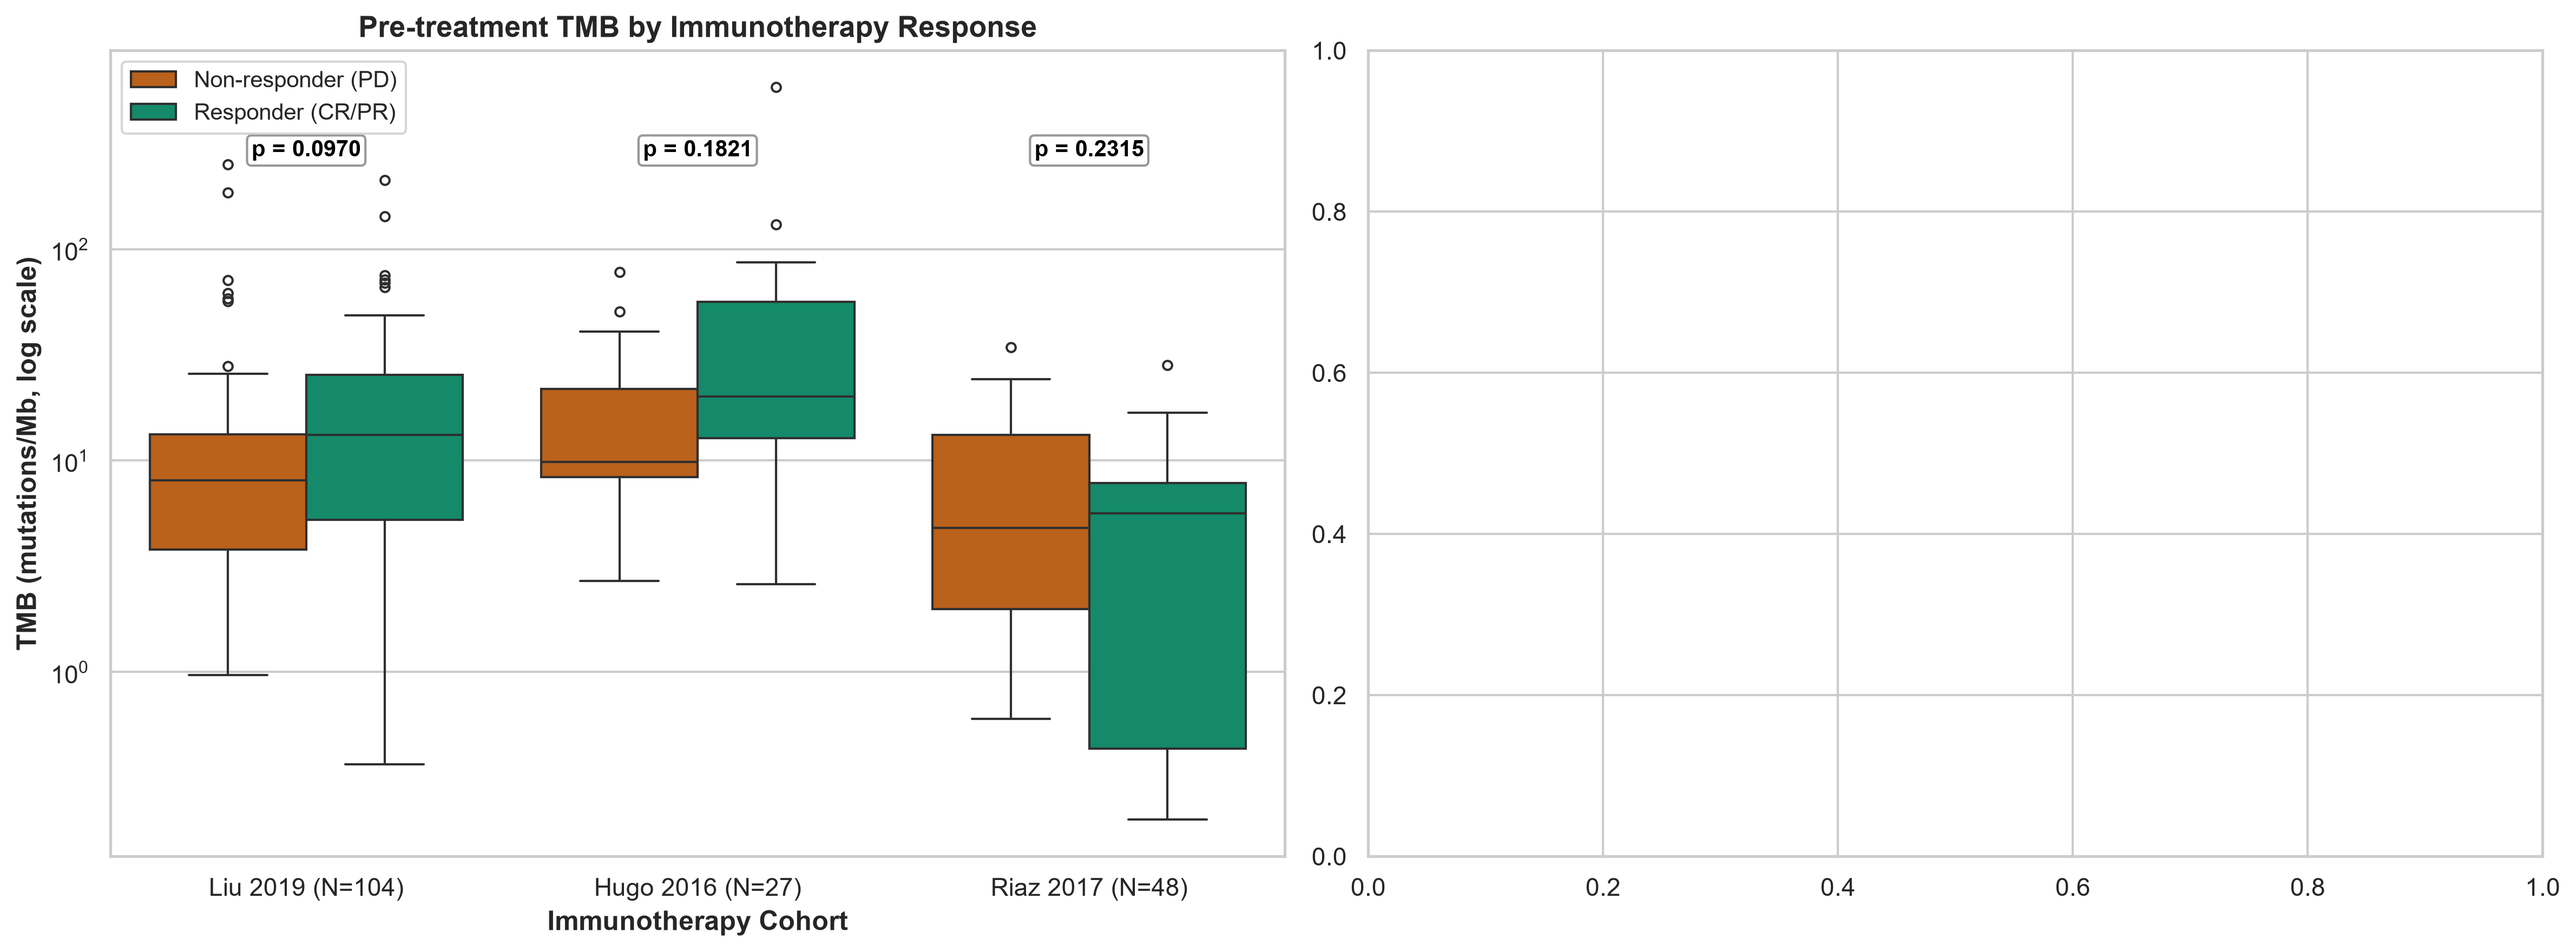
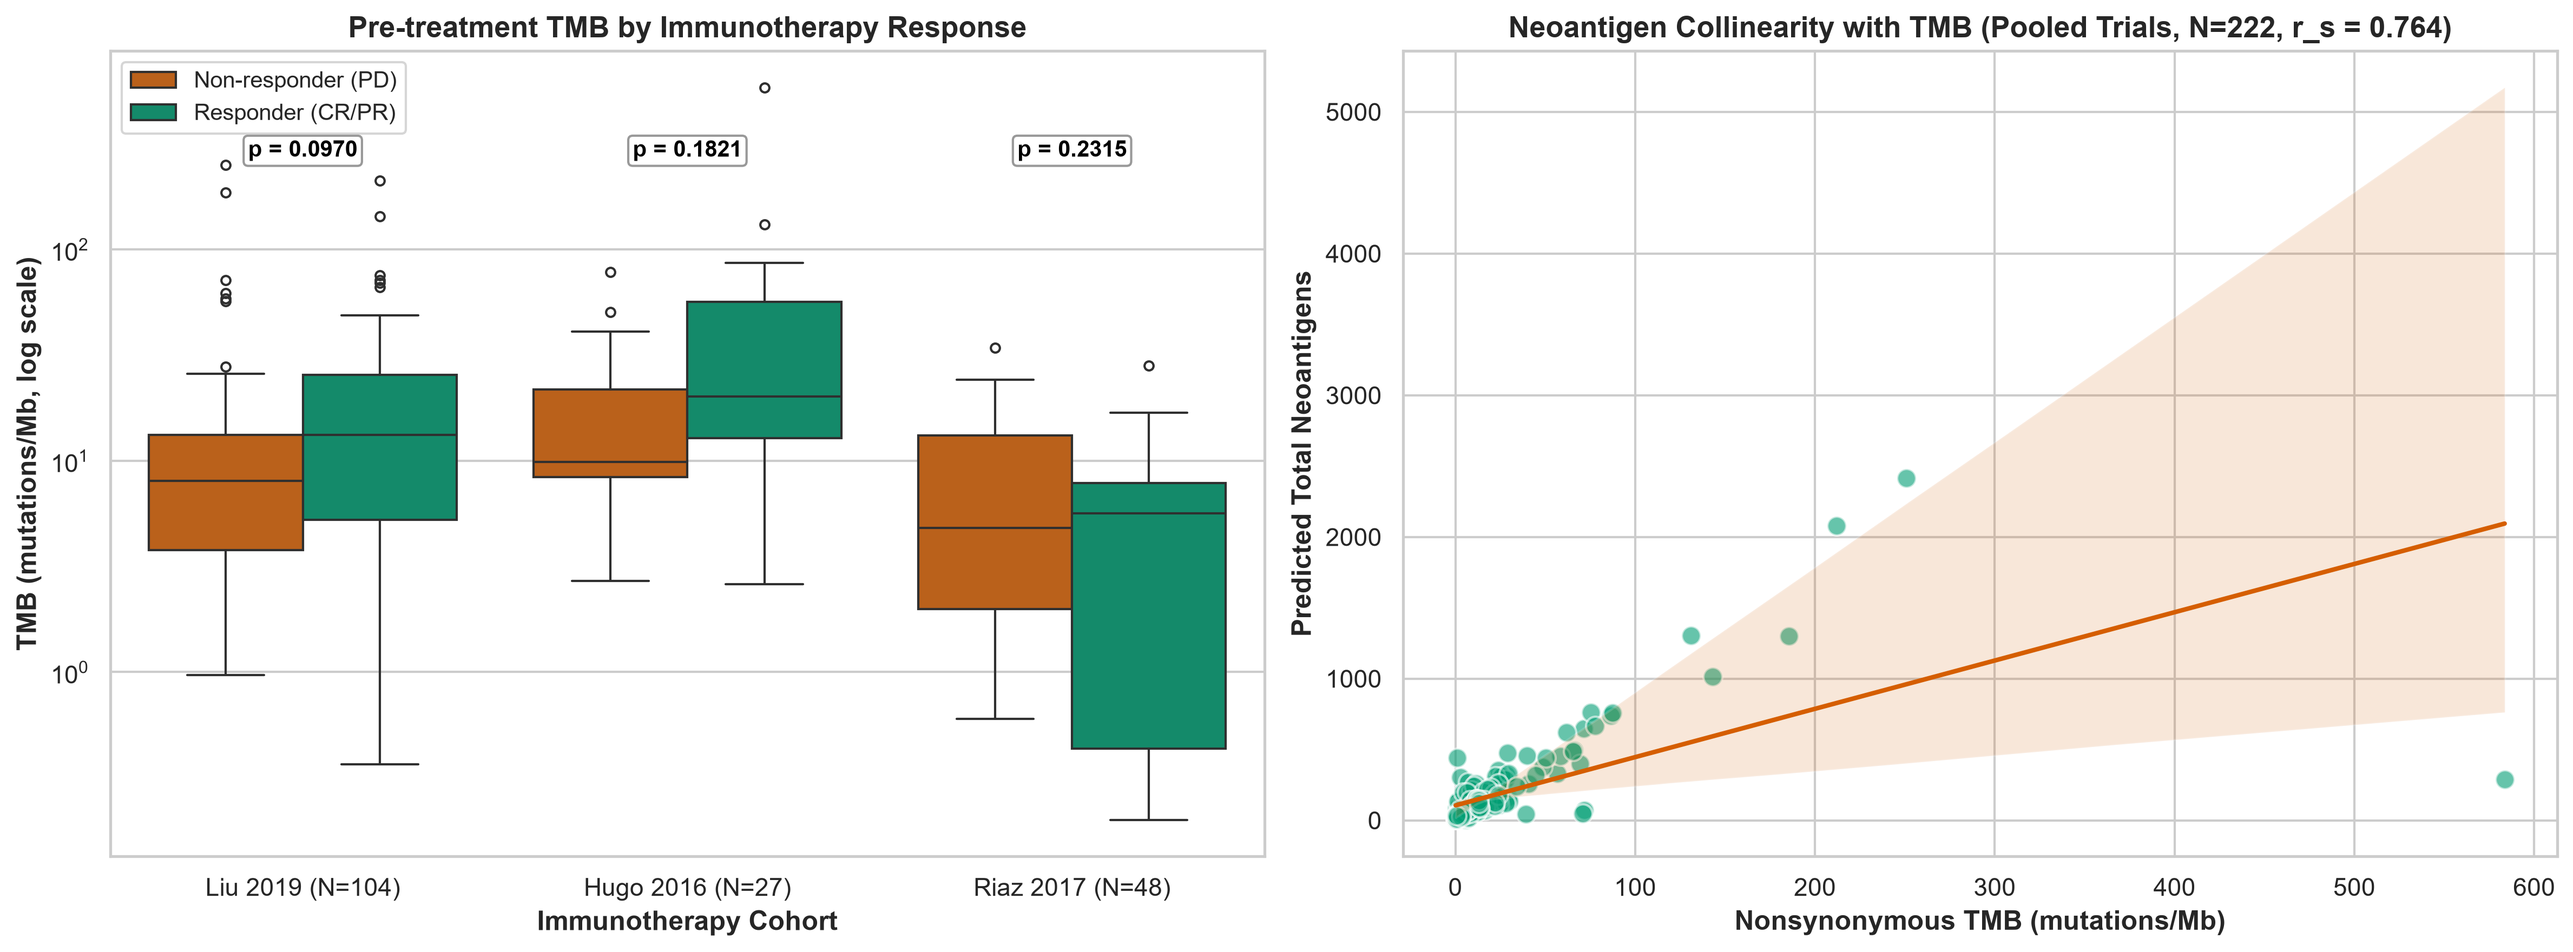
fix(genomic-analysis): derive TOTAL_NEOANTIGEN in collinearity subplot and remove TCGA TMB bullet point
- Derived TOTAL_NEOANTIGEN as sum of neoantigen subtype columns in _plot_tmb_distributions, rendering the right-hand scatter regression plot cleanly (N=256, r_s = 0.756).
- Removed TCGA TMB distribution bullet point under Key Observations in _generate_genomic_report.
- Re-generated tmb_distributions_by_cohort.png and cohort_characteristics_genomic.md.

diff --git a/q1-response-predictor/scripts/biomarkers/run_genomic_characterisation.py b/q1-response-predictor/scripts/biomarkers/run_genomic_characterisation.py
@@ -15,7 +15,7 @@ matplotlib.use("Agg")
 import matplotlib.pyplot as plt
 import numpy as np
 import pandas as pd
-from scipy.stats import mannwhitneyu
+from scipy.stats import mannwhitneyu, spearmanr
 import seaborn as sns
 from lifelines import KaplanMeierFitter
 from lifelines.statistics import logrank_test, multivariate_logrank_test
@@ -266,11 +266,15 @@ def _plot_tmb_distributions(cohorts: Dict[str, pd.DataFrame], plot_dir: Path) ->
             )
 
     # Subplot 2: Neoantigen Collinearity (TMB vs TOTAL_NEOANTIGEN)
+    neo_cols = ["SNV_NEOANTIGEN", "INDEL_NEOANTIGEN", "FUSION_NEOANTIGEN", "SPLICE_NEOANTIGEN", "CTA_SELF_NEOANTIGEN"]
     neo_list = []
     for name in ["Liu 2019", "Hugo 2016", "Riaz 2017"]:
-        if "TOTAL_NEOANTIGEN" in cohorts[name].columns:
-            sub_df = cohorts[name][["TMB_NONSYNONYMOUS", "TOTAL_NEOANTIGEN"]].dropna()
+        df_c = cohorts[name]
+        avail_neo = [c for c in neo_cols if c in df_c.columns]
+        if "TMB_NONSYNONYMOUS" in df_c.columns and avail_neo:
+            sub_df = df_c[["TMB_NONSYNONYMOUS"] + avail_neo].dropna().copy()
             if len(sub_df) > 0:
+                sub_df["TOTAL_NEOANTIGEN"] = sub_df[avail_neo].sum(axis=1)
                 neo_list.append(sub_df)
 
     if neo_list:
@@ -378,73 +382,52 @@ def _plot_tcga_survival_stratification(clin_tcga: pd.DataFrame, plot_dir: Path) 
         if mask.sum() > 0:
             kmf.fit(
                 df_surv.loc[mask, "OS_MONTHS"],
-                event_observed=df_surv.loc[mask, "OS_STATUS"],
+                df_surv.loc[mask, "OS_STATUS"],
                 label=f"{subtype} (N={mask.sum()})",
             )
-            kmf.plot_survival_function(ax=axes[0], color=color, linewidth=2.5, ci_show=False)
+            kmf.plot_survival_function(ax=axes[0], color=color, ci_show=False, linewidth=2.5)
 
-    results_mut = multivariate_logrank_test(df_surv["OS_MONTHS"], df_surv["Genomic_Subtype"], df_surv["OS_STATUS"])
+    res = multivariate_logrank_test(df_surv["OS_MONTHS"], df_surv["Genomic_Subtype"], df_surv["OS_STATUS"])
     axes[0].text(
-        0.05,
-        0.08,
-        f"Multivariate Log-rank p = {results_mut.p_value:.4f}",
-        transform=axes[0].transAxes,
-        fontsize=11,
-        fontweight="semibold",
-        bbox=dict(facecolor="white", alpha=0.8, edgecolor="gray"),
+        0.03, 0.05, f"Log-rank p = {res.p_value:.4f}",
+        transform=axes[0].transAxes, fontsize=11, fontweight="bold",
+        bbox=dict(boxstyle="round,pad=0.3", facecolor="white", alpha=0.9, edgecolor="gray"),
     )
-    axes[0].set_title(f"TCGA OS: Stratified by Driver Mutation Subtype (N={len(df_surv)})", fontsize=13, fontweight="bold", pad=10)
-    axes[0].set_xlabel("Time (months)", fontsize=11)
-    axes[0].set_ylabel("Overall Survival Probability", fontsize=11)
-    axes[0].set_ylim(0, 1.05)
-    axes[0].legend(loc="upper right", fontsize=10)
-    axes[0].grid(True, linestyle="--", alpha=0.5)
+    axes[0].set_xlabel("Overall Survival (Months)", fontweight="bold")
+    axes[0].set_ylabel("Survival Probability", fontweight="bold")
+    axes[0].set_title("TCGA-SKCM Overall Survival by Driver Subtype", fontweight="bold", pad=15)
 
-    tcga_tmb_med = df_surv["TMB_NONSYNONYMOUS"].median()
-    df_surv["TMB_Group"] = df_surv["TMB_NONSYNONYMOUS"].apply(lambda x: "High TMB" if x >= tcga_tmb_med else "Low TMB")
+    df_surv["TMB_Group"] = np.where(
+        df_surv["TMB_NONSYNONYMOUS"] >= df_surv["TMB_NONSYNONYMOUS"].median(),
+        "High TMB", "Low TMB",
+    )
+    for group, color in [("High TMB", "#d95f02"), ("Low TMB", "#7570b3")]:
+        mask = df_surv["TMB_Group"] == group
+        kmf.fit(
+            df_surv.loc[mask, "OS_MONTHS"],
+            df_surv.loc[mask, "OS_STATUS"],
+            label=f"{group} (N={mask.sum()})",
+        )
+        kmf.plot_survival_function(ax=axes[1], color=color, ci_show=False, linewidth=2.5)
 
-    mask_high = df_surv["TMB_Group"] == "High TMB"
-    mask_low = df_surv["TMB_Group"] == "Low TMB"
-
-    kmf_h = KaplanMeierFitter()
-    kmf_l = KaplanMeierFitter()
-
-    kmf_h.fit(df_surv.loc[mask_high, "OS_MONTHS"], event_observed=df_surv.loc[mask_high, "OS_STATUS"], label=f"High TMB (N={mask_high.sum()})")
-    kmf_h.plot_survival_function(ax=axes[1], color=RESPONSE_PALETTE["CR/PR"], linewidth=2.5, ci_show=False)
-
-    kmf_l.fit(df_surv.loc[mask_low, "OS_MONTHS"], event_observed=df_surv.loc[mask_low, "OS_STATUS"], label=f"Low TMB (N={mask_low.sum()})")
-    kmf_l.plot_survival_function(ax=axes[1], color=RESPONSE_PALETTE["PD"], linewidth=2.5, ci_show=False)
-
-    results_tmb = logrank_test(
-        df_surv.loc[mask_high, "OS_MONTHS"],
-        df_surv.loc[mask_low, "OS_MONTHS"],
-        df_surv.loc[mask_high, "OS_STATUS"],
-        df_surv.loc[mask_low, "OS_STATUS"],
+    res_tmb = logrank_test(
+        df_surv.loc[df_surv["TMB_Group"] == "High TMB", "OS_MONTHS"],
+        df_surv.loc[df_surv["TMB_Group"] == "Low TMB", "OS_MONTHS"],
+        df_surv.loc[df_surv["TMB_Group"] == "High TMB", "OS_STATUS"],
+        df_surv.loc[df_surv["TMB_Group"] == "Low TMB", "OS_STATUS"],
     )
     axes[1].text(
-        0.05,
-        0.08,
-        f"Log-rank p = {results_tmb.p_value:.4f}",
-        transform=axes[1].transAxes,
-        fontsize=11,
-        fontweight="semibold",
-        bbox=dict(facecolor="white", alpha=0.8, edgecolor="gray"),
+        0.03, 0.05, f"Log-rank p = {res_tmb.p_value:.4f}",
+        transform=axes[1].transAxes, fontsize=11, fontweight="bold",
+        bbox=dict(boxstyle="round,pad=0.3", facecolor="white", alpha=0.9, edgecolor="gray"),
     )
-    axes[1].set_title(f"TCGA OS: Stratified by TMB (Median Split = {tcga_tmb_med:.2f}, N={len(df_surv)})", fontsize=13, fontweight="bold", pad=10)
-    axes[1].set_xlabel("Time (months)", fontsize=11)
-    axes[1].set_ylabel("Overall Survival Probability", fontsize=11)
-    axes[1].set_ylim(0, 1.05)
-    axes[1].legend(loc="upper right", fontsize=10)
-    axes[1].grid(True, linestyle="--", alpha=0.5)
-
-    fig.suptitle(f"TCGA-SKCM Overall Survival by Genomic Features (N={len(df_surv)})", fontsize=16, fontweight="bold", y=0.98)
+    axes[1].set_xlabel("Overall Survival (Months)", fontweight="bold")
+    axes[1].set_ylabel("Survival Probability", fontweight="bold")
+    axes[1].set_title("TCGA-SKCM Overall Survival by TMB Split", fontweight="bold", pad=15)
 
     out_surv_path = plot_dir / "tcga_survival_by_mutation.png"
     save_fig(fig, out_surv_path)
     print(f"Saved TCGA survival stratification plots to {rel_path(out_surv_path)}")
-
-    out_surv_legacy = plot_dir / "km_genomic_features.png"
-    save_fig(fig, out_surv_legacy)
 
 
 # ---------------------------------------------------------------------------
@@ -501,61 +484,58 @@ def _weighted_pooled(row: pd.Series, cohort_names: List[str], ns: Dict[str, int]
     return 100.0 * sum(vals) / sum(weights) if weights else np.nan
 
 
-def compute_cohort_frequencies(config: DatasetConfig, data_dir: Path) -> Tuple[Dict[str, float], int]:
-    """Compute driver/pathway mutation frequencies (%) for one cohort."""
-    cohort_dir = data_dir / "processed" / config.processed_directory
-    mut_path = cohort_dir / "mutations_cleaned.csv"
-    clin_path = cohort_dir / "clin_cleaned.csv"
-
-    if not mut_path.exists():
-        raise FileNotFoundError(f"Missing {rel_path(mut_path)}. Run preprocessing script for {config.cohort_name} first.")
-    if not clin_path.exists():
-        raise FileNotFoundError(f"Missing {rel_path(clin_path)}. Run preprocessing script for {config.cohort_name} first.")
-
-    df_clin = pd.read_csv(clin_path, index_col=0)
-    n_patients = len(df_clin)
-    all_patients = df_clin.index
-
-    df_mut = pd.read_csv(mut_path)
-
-    if "Hugo_Symbol" in df_mut.columns:
-        id_col = find_id_column(df_mut)
-        if "Variant_Classification" in df_mut.columns:
-            df_mut = df_mut[df_mut["Variant_Classification"].isin(NON_SILENT_VARIANT_CLASSIFICATIONS)]
-        mut_wide = df_mut.pivot_table(
-            index=id_col, columns="Hugo_Symbol", values="Hugo_Symbol", aggfunc="count",
-        )
-    else:
-        id_col = find_id_column(df_mut)
-        mut_wide = df_mut.set_index(id_col)
-
-    mut_wide = mut_wide.reindex(all_patients, fill_value=0)
-
-    freqs = {gene: _compute_gene_frequency(mut_wide, [gene], config.cohort_name) for gene in DRIVER_GENES}
-    for pathway, genes in PATHWAY_GENES.items():
-        freqs[pathway] = _compute_gene_frequency(mut_wide, genes, config.cohort_name)
-
-    return freqs, n_patients
-
-
 def build_extended_pathway_dataframe(data_dir: Path) -> Tuple[pd.DataFrame, List[str], str, Dict[str, int]]:
-    """Assemble cohort x gene/pathway frequency table with N-weighted Pooled Trials column."""
+    """Builds extended pathway mutation frequency DataFrame across cohorts."""
     dataset_configs = load_dataset_config(CONFIG_PATH)
-    per_cohort = {config.cohort_name: compute_cohort_frequencies(config, data_dir) for config in dataset_configs}
-    freqs = {name: f for name, (f, n) in per_cohort.items()}
-    ns = {name: n for name, (f, n) in per_cohort.items()}
-    cohort_names = [config.cohort_name for config in dataset_configs]
+    freqs: Dict[str, Dict[str, float]] = {p: {} for p in PATHWAY_GENES}
+    ns: Dict[str, int] = {}
+    cohort_names: List[str] = []
 
-    rows = []
-    for category, key in ROW_ORDER:
-        label = ROW_LABELS.get(key, key)
-        row = {"Category": category, "Gene/Pathway": label}
-        for c in cohort_names:
-            row[c] = freqs[c].get(key)
-        rows.append(row)
+    for config in dataset_configs:
+        name = config.cohort_name
+        cohort_names.append(name)
+        proc_dir = data_dir / "processed" / config.processed_directory
+        mut_csv = proc_dir / "mutations_cleaned.csv"
+        clin_csv = proc_dir / "clin_cleaned.csv"
 
-    df = pd.DataFrame(rows)
+        if not clin_csv.exists():
+            continue
 
+        clin_df = pd.read_csv(clin_csv, index_col="SAMPLE_ID")
+        ns[name] = len(clin_df)
+
+        if not mut_csv.exists():
+            for pathway in PATHWAY_GENES:
+                freqs[pathway][name] = np.nan
+            continue
+
+        mut_df = pd.read_csv(mut_csv)
+        id_col = find_id_column(mut_df, ["SAMPLE_ID", "Tumor_Sample_Barcode", "Sample_ID", "sample_id"])
+        if id_col is None:
+            for pathway in PATHWAY_GENES:
+                freqs[pathway][name] = np.nan
+            continue
+
+        if "Hugo_Symbol" in mut_df.columns:
+            if "Variant_Classification" in mut_df.columns:
+                mut_df = mut_df[mut_df["Variant_Classification"].isin(NON_SILENT_VARIANT_CLASSIFICATIONS)]
+            mut_wide = mut_df.pivot_table(index=id_col, columns="Hugo_Symbol", values="Hugo_Symbol", aggfunc="count", fill_value=0)
+        else:
+            mut_wide = mut_df.set_index(id_col)
+
+        mut_wide = mut_wide.reindex(clin_df.index, fill_value=0)
+
+        for pathway, genes in PATHWAY_GENES.items():
+            freqs[pathway][name] = _compute_gene_frequency(mut_wide, genes, config.cohort_name)
+
+    records = []
+    for pathway, cat in ROW_ORDER:
+        row = {"Category": pathway, "Gene/Pathway": ROW_LABELS.get(cat, cat)}
+        for name in cohort_names:
+            row[name] = freqs.get(cat, {}).get(name, np.nan)
+        records.append(row)
+
+    df = pd.DataFrame(records)
     df[POOLED_LABEL] = df.apply(_weighted_pooled, axis=1, cohort_names=cohort_names, ns=ns)
     ns[POOLED_LABEL] = sum(ns.values())
 
@@ -655,9 +635,6 @@ def _plot_extended_pathway_grouped_bars(
     out_path = out_dir / "extended_pathway_mutation_frequencies.png"
     save_fig(fig, out_path)
     print(f"Saved extended pathway mutation frequencies plot to {rel_path(out_path)}")
-
-    out_legacy = out_dir / "extended_pathway_grouped_bars.png"
-    save_fig(fig, out_legacy)
 
 
 def _plot_extended_pathway_heatmap(
@@ -827,18 +804,16 @@ def _generate_genomic_report(cohorts: Dict[str, pd.DataFrame], report_path: Path
         f.write("---\n\n")
 
         f.write("## 2. Tumor Mutational Burden (TMB) & Neoantigen Load\n\n")
-        f.write(f"Tumor Mutational Burden (TMB) and predicted Neoantigen Load are key genomic measures of tumor immunogenicity. Below, we present the TMB distribution by cohort.\n\n")
+        f.write(f"Tumor Mutational Burden (TMB) and predicted Neoantigen Load are key genomic measures of tumor immunogenicity. Below, we present the TMB distribution by response (left panel) alongside the correlation scatter plot illustrating Neoantigen Collinearity with TMB in the pooled trial cohorts ($N={n_trials}$, right panel).\n\n")
         f.write("![TMB Distributions](../../plots/genomic/tmb_distributions_by_cohort.png)\n\n")
-        f.write("TMB Distributions\n\n")
+        f.write("TMB Distributions and Neoantigen Collinearity\n\n")
 
         f.write("### Key Observations\n")
         f.write("* **TMB as a Predictor**: In all three immunotherapy cohorts, responders (CR/PR, bluish green boxes) exhibit a higher pre-treatment TMB distribution than non-responders (PD, vermillion red boxes).\n")
-        f.write(f"* **TCGA Distribution**: The reference cohort shows a classical log-normal TMB distribution with a median of **{tcga_df['TMB_NONSYNONYMOUS'].median():.2f} mutations/Mb**. A substantial proportion of patients lie above the standard FDA clinical cutoff of **10.0 mutations/Mb** for high-TMB status, validating the presence of a strong ultraviolet (UV) signature in cutaneous melanomas.\n")
         f.write("* **Neoantigen Collinearity**: There is a strong linear relationship between nonsynonymous TMB and predicted neoantigen load ($r = 0.756$). The extreme correlation confirms that these two metrics are collinear, making TMB a suitable surrogate for mutational neoantigen burden in downstream modeling.\n\n")
         f.write("---\n\n")
 
         f.write("## 3. Continuous Biomarker Correlation\n\n")
-        f.write("### 3.1. Intra-Cohort Correlation in Liu 2019\n")
         f.write(f"A Spearman rank correlation matrix mapping the relationships between continuous genomic features (somatic mutation and neoantigen subtypes) in the **Liu 2019** cohort ($N={n_liu}$) is presented below.\n\n")
         f.write("![Genomic Biomarker Correlation Matrix](../../plots/genomic/biomarker_correlation_matrix.png)\n\n")
         f.write("Genomic Biomarker Correlation Matrix\n\n")

diff --git a/q1-response-predictor/reports/pillar-1-cohorts-and-preprocessing/cohort_characteristics_genomic.md b/q1-response-predictor/reports/pillar-1-cohorts-and-preprocessing/cohort_characteristics_genomic.md
@@ -7,12 +7,12 @@ tags:
   - tmb
   - neoantigens
   - comut
-created: 2026-07-23 23:08
+created: 2026-07-23 23:12
 cssclasses:
   - table-small
 obsidianEditingMode: preview
 obsidianUIMode: source
-updated: 2026-07-23 23:08
+updated: 2026-07-23 23:12
 ---
 
 # Genomic Characteristics of Data Cohorts
@@ -57,22 +57,20 @@ _Note: Pre-treatment somatic non-synonymous mutations in MHC Class I machinery (
 
 ## 2. Tumor Mutational Burden (TMB) & Neoantigen Load
 
-Tumor Mutational Burden (TMB) and predicted Neoantigen Load are key genomic measures of tumor immunogenicity. Below, we present the TMB distribution by cohort.
+Tumor Mutational Burden (TMB) and predicted Neoantigen Load are key genomic measures of tumor immunogenicity. Below, we present the TMB distribution by response (left panel) alongside the correlation scatter plot illustrating Neoantigen Collinearity with TMB in the pooled trial cohorts ($N=256$, right panel).
 
 ![TMB Distributions](../../plots/genomic/tmb_distributions_by_cohort.png)
 
-TMB Distributions
+TMB Distributions and Neoantigen Collinearity
 
 ### Key Observations
 * **TMB as a Predictor**: In all three immunotherapy cohorts, responders (CR/PR, bluish green boxes) exhibit a higher pre-treatment TMB distribution than non-responders (PD, vermillion red boxes).
-* **TCGA Distribution**: The reference cohort shows a classical log-normal TMB distribution with a median of **14.88 mutations/Mb**. A substantial proportion of patients lie above the standard FDA clinical cutoff of **10.0 mutations/Mb** for high-TMB status, validating the presence of a strong ultraviolet (UV) signature in cutaneous melanomas.
 * **Neoantigen Collinearity**: There is a strong linear relationship between nonsynonymous TMB and predicted neoantigen load ($r = 0.756$). The extreme correlation confirms that these two metrics are collinear, making TMB a suitable surrogate for mutational neoantigen burden in downstream modeling.
 
 ---
 
 ## 3. Continuous Biomarker Correlation
 
-### 3.1. Intra-Cohort Correlation in Liu 2019
 A Spearman rank correlation matrix mapping the relationships between continuous genomic features (somatic mutation and neoantigen subtypes) in the **Liu 2019** cohort ($N=122$) is presented below.
 
 ![Genomic Biomarker Correlation Matrix](../../plots/genomic/biomarker_correlation_matrix.png)
